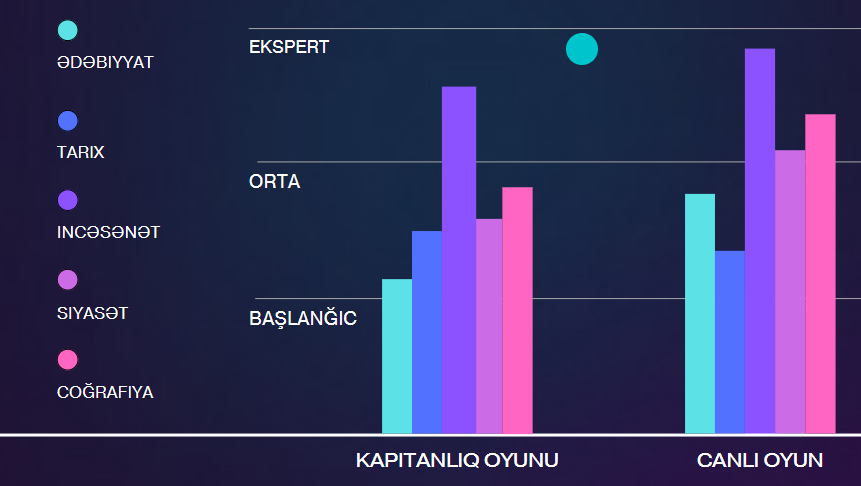
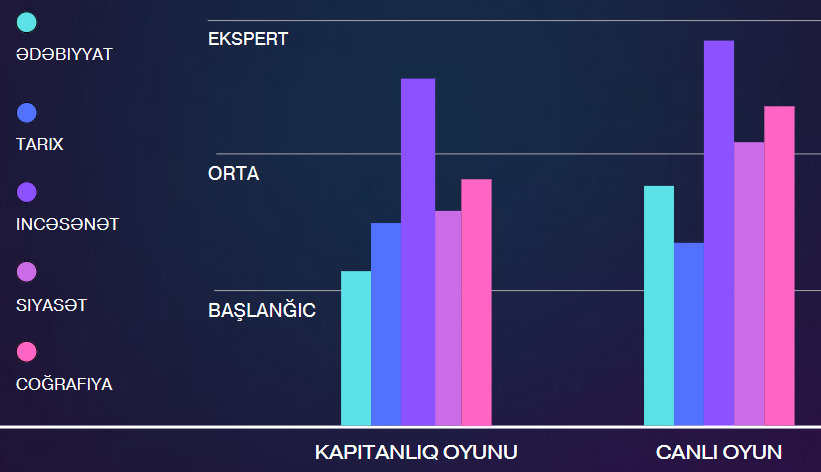
a lot of things idk what to write

diff --git a/app/components/BottomNavBar.js b/app/components/BottomNavBar.js
@@ -1,0 +1,57 @@
+import React from 'react';
+import { Box, HStack, Pressable, Icon } from 'native-base';
+import { router } from 'expo-router';
+import {styles} from '../styles/styles';
+import { MaterialIcons } from '@expo/vector-icons';
+
+export const BottomNavBar = () => {
+    return (
+        <Box safeAreaBottom shadow={6}>
+            <HStack bg={styles.tcolor} alignItems="center" safeAreaBottom shadow={2}>
+                <Pressable 
+                    cursor="pointer" 
+                    opacity={0.6} 
+                    py="3" 
+                    flex={1} 
+                    onPress={() => router.push("/")}
+                >
+                    <Icon 
+                        as={<MaterialIcons name="home" />}
+                        size="sm" 
+                        color={styles.scolor}
+                    />
+                </Pressable>
+
+                <Pressable 
+                    cursor="pointer" 
+                    opacity={0.6} 
+                    py="3" 
+                    flex={1} 
+                    onPress={() => router.push("/profile")}
+                >
+                    <Icon 
+                        as={<MaterialIcons name="person" />} 
+                        size="sm" 
+                        color={styles.scolor}
+                    />
+                </Pressable>
+
+                <Pressable 
+                    cursor="pointer" 
+                    opacity={0.6} 
+                    py="3" 
+                    flex={1} 
+                    onPress={() => router.push("/capGame")}
+                >
+                    <Icon 
+                        as={<MaterialIcons name="videogame-asset" />} 
+                        size="sm" 
+                        color={styles.scolor}
+                    />
+                </Pressable>
+            </HStack>
+        </Box>
+    );
+}
+
+export default BottomNavBar;

diff --git a/app/profile/index.js b/app/profile/index.js
@@ -46,16 +46,17 @@ const Profile = () => {
         <HStack space={4} w="90%" mt={5} m="auto">
           <MyButton text="Edit" onPress={() => console.log("Edit Profile")} />
           <Spacer />
-          <MyButton text="Connect" onPress={() => router.replace("/connectToGame")} />
+          <MyButton text="Connect" onPress={() => router.push("/connectToGame")} />
           <Spacer />
-          <MyButton text="Team" onPress={() => router.replace("/team")} />
+          <MyButton text="Team" onPress={() => router.push("/team")} />
         </HStack>
         <Box w="90%" marginTop={5} bg={styles.pbgcolor} rounded="md"  p="5" m="auto"
          borderWidth={1} borderColor={styles.pcolor} h="60%">
-            <Box h="40%" w="90%" m="auto">
+            <Box h="30%" m="auto">
               <Image
                 source={require('../assets/graph.png')}
-                flex={1}
+                flex={1} m="auto"
+                aspectRatio={1.77}
                 resizeMode="cover"
               />
             </Box>
@@ -72,7 +73,7 @@ const Profile = () => {
             <Divider my={1} bg={styles.pcolor} color={styles.pcolor}/>
             <MyButton text="Take Mock Quiz" onPress={() => router.replace("/capGame/question")} />
         </Box>
-        <MySimpleLink text="Back to Home..." link="/"/>
+        
       </Container>
     </Center>
   );

diff --git a/app/_layout.js b/app/_layout.js
@@ -3,6 +3,7 @@ import { ImageBackground } from 'react-native';
 import { hideNavBar } from './components/androidFixes';
 import { NativeBaseProvider, } from "native-base";
 import {styles} from './styles/styles';
+import { BottomNavBar} from './components/BottomNavBar';
 
 export default function Layout() {
     hideNavBar()
@@ -14,7 +15,9 @@ export default function Layout() {
         >
             <NativeBaseProvider>
                 <Slot/>
+                <BottomNavBar/>
             </NativeBaseProvider>
+        
         </ImageBackground>
     );
 }

diff --git a/app/components/index.js b/app/components/index.js
@@ -5,7 +5,7 @@ import {MyInput} from './MyInput';
 import {MySimpleLink} from './MySimpleLink';
 import {Table} from './Table';
 import {PlayerRow } from './PlayerRow';
-import {styles} from '../styles/styles';
+import {BottomNavBar} from './BottomNavBar';
 
 export {
     androidFixes,
@@ -14,5 +14,6 @@ export {
     MyInput,
     MySimpleLink,
     Table,
-    PlayerRow
+    PlayerRow,
+    BottomNavBar,
 };

diff --git a/app/connectToGame.js b/app/connectToGame.js
@@ -38,7 +38,7 @@ const Login = () => {
           <MyInput placeholder="Game Code" onChangeText={value => setGameCode(value)}/>
           <MyButton text="Submit" onPress={() => doConnectToGame()} />
         </Stack>
-        <MySimpleLink text="Back to Home..." link="/"/>
+        
       </Container>
     </Center>
   );

diff --git a/app/team/index.js b/app/team/index.js
@@ -33,7 +33,6 @@ const Home = () => {
             <MyButton text="Leaderboard" onPress={() => router.push("/team/leaderboard")} />
           </Stack>
         </Box>
-        <MySimpleLink link="/" text="Back to Home..."/>
       </Container>
     </Center>
   );

diff --git a/app/login.js b/app/login.js
@@ -50,7 +50,7 @@ const Login = () => {
             <MySimpleLink text="Register" link="/register"/>
           </Flex>
         </Stack>
-        <MySimpleLink text="Back to Home..." link="/"/>
+        
       </Container>
     </Center>
   );

diff --git a/app/register.js b/app/register.js
@@ -60,7 +60,7 @@ const Register = () => {
             <MySimpleLink text="Login" link="/login"/>
           </Flex>
         </Stack>
-        <MySimpleLink text="Back to Home..." link="/"/>
+        
       </Container>
     </Center>
   );
